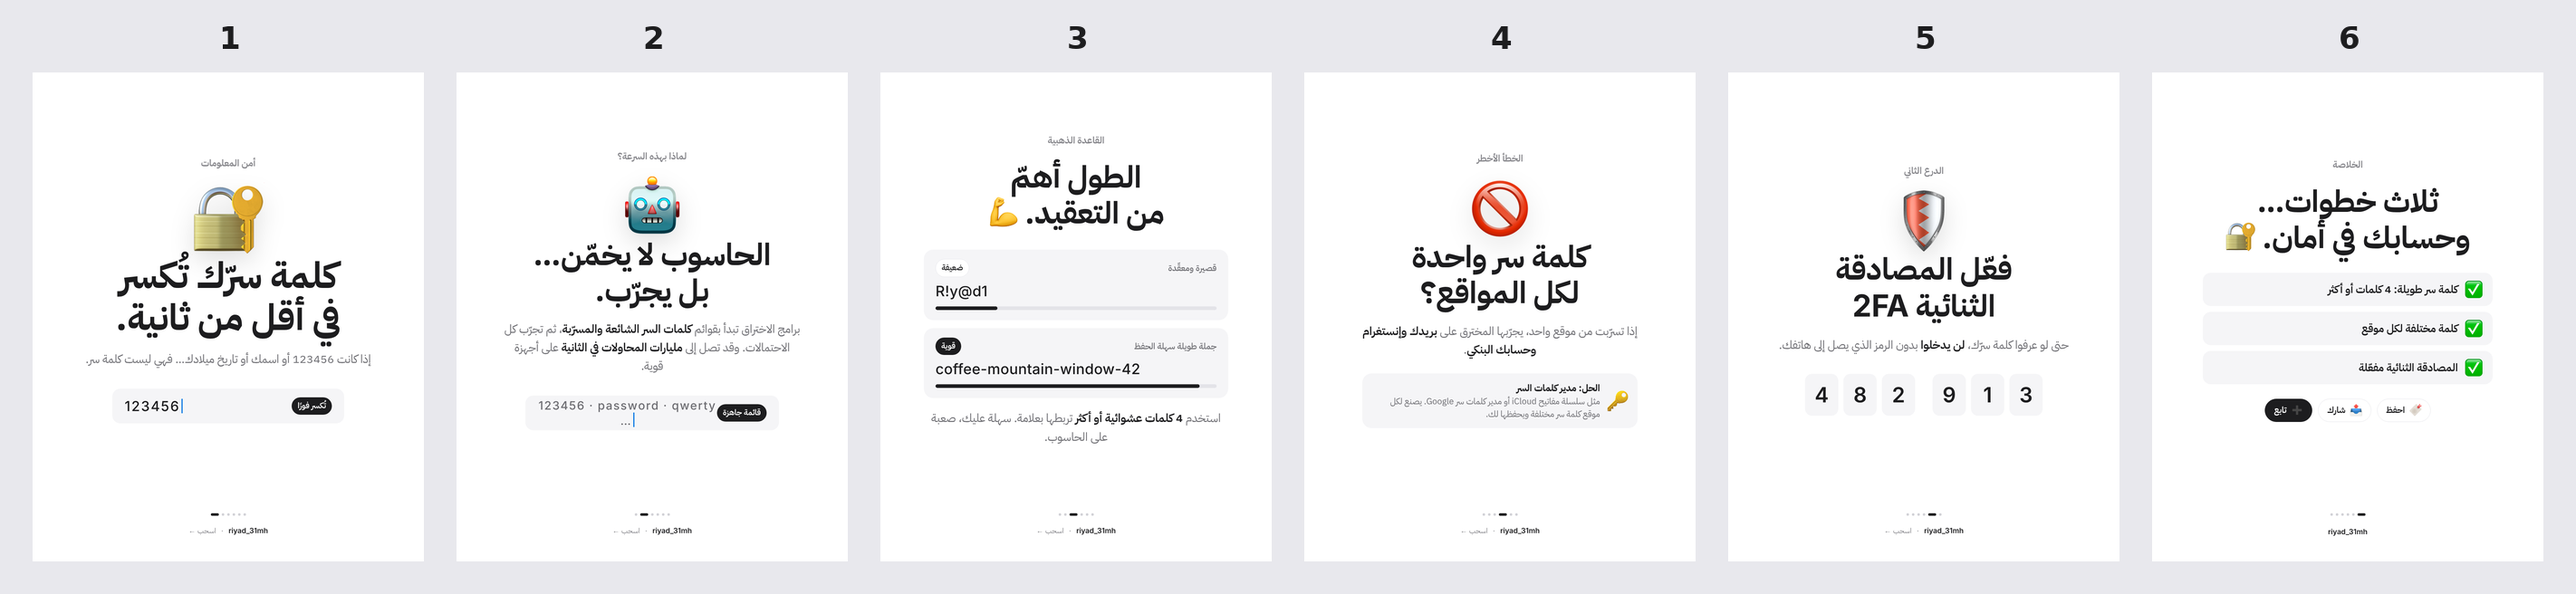
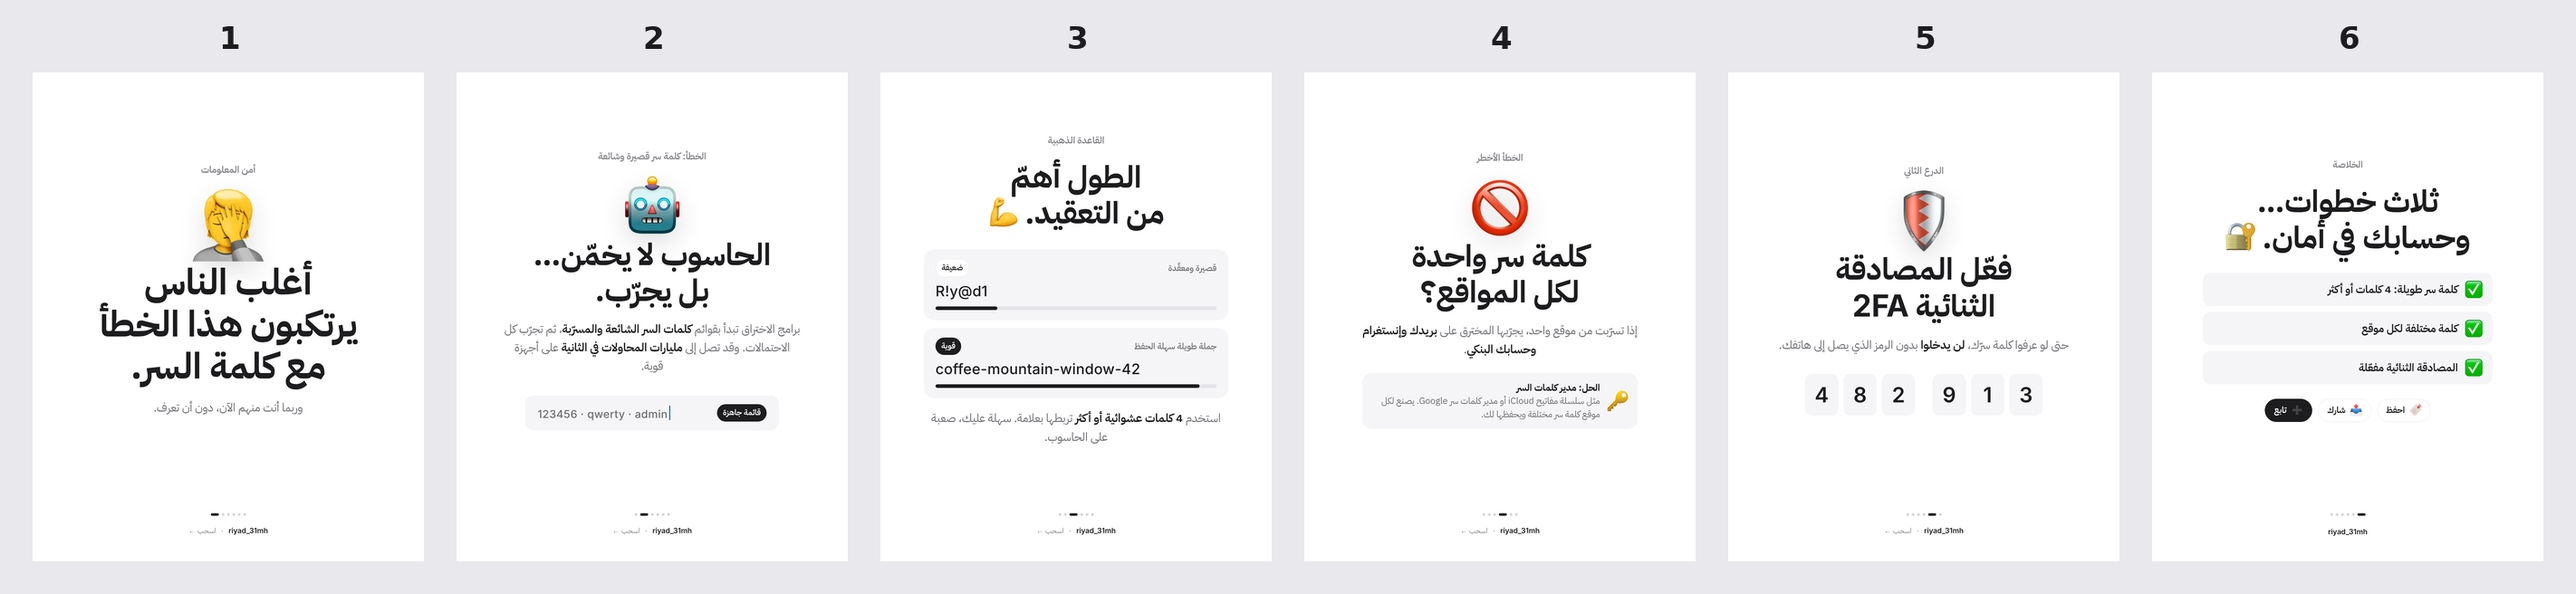
Use hook 5 as slide 1 of the passwords carousel
Slide 2 now names the mistake straight away, and the preferred hook
type is recorded in STYLE.md.

Claude-Session: https://claude.ai/code/session_01UbohiwCZgpjzuE4UB3obHg

diff --git a/instagram/passwords-post/post.html b/instagram/passwords-post/post.html
@@ -134,7 +134,7 @@
 <!-- slide 2: why -->
 <section class="s" data-out="slides/slide-2" data-i="2">
   <div class="col">
-    <div class="eyebrow">لماذا بهذه السرعة؟</div>
+    <div class="eyebrow">الخطأ: كلمة سر قصيرة وشائعة</div>
     <img class="e gap-e" src="img/1f916.png" style="width:170px;height:170px">
     <h2>الحاسوب لا يخمّن…<br>بل يجرّب.</h2>
     <p class="sub">برامج الاختراق تبدأ بقوائم <b>كلمات السر الشائعة والمسرّبة</b>، ثم تجرّب كل الاحتمالات. وقد تصل إلى <b>مليارات المحاولات في الثانية</b> على أجهزة قوية.</p>

diff --git a/instagram/STYLE.md b/instagram/STYLE.md
@@ -17,3 +17,7 @@ Applies to every new Instagram post unless the owner asks otherwise.
 - Fonts: IBM Plex Sans Arabic (headline 700, 84–100px; body 400, 32px). Inter for Latin text and numbers.
 - Footer: `riyad_31mh · اسحب ←` plus progress dots; the last slide shows only the handle.
 - Reference implementation: `passwords-post/post.html`.
+
+## Hook preference (owner feedback)
+- Favourite so far: «أغلب الناس يرتكبون هذا الخطأ مع كلمة السر.» 🤦 and subtitle «وربما أنت منهم الآن، دون أن تعرف.»
+  This is a "most people make this mistake" hook that points at the reader. Lead with this kind of hook, and make slide 2 name the mistake straight away.
